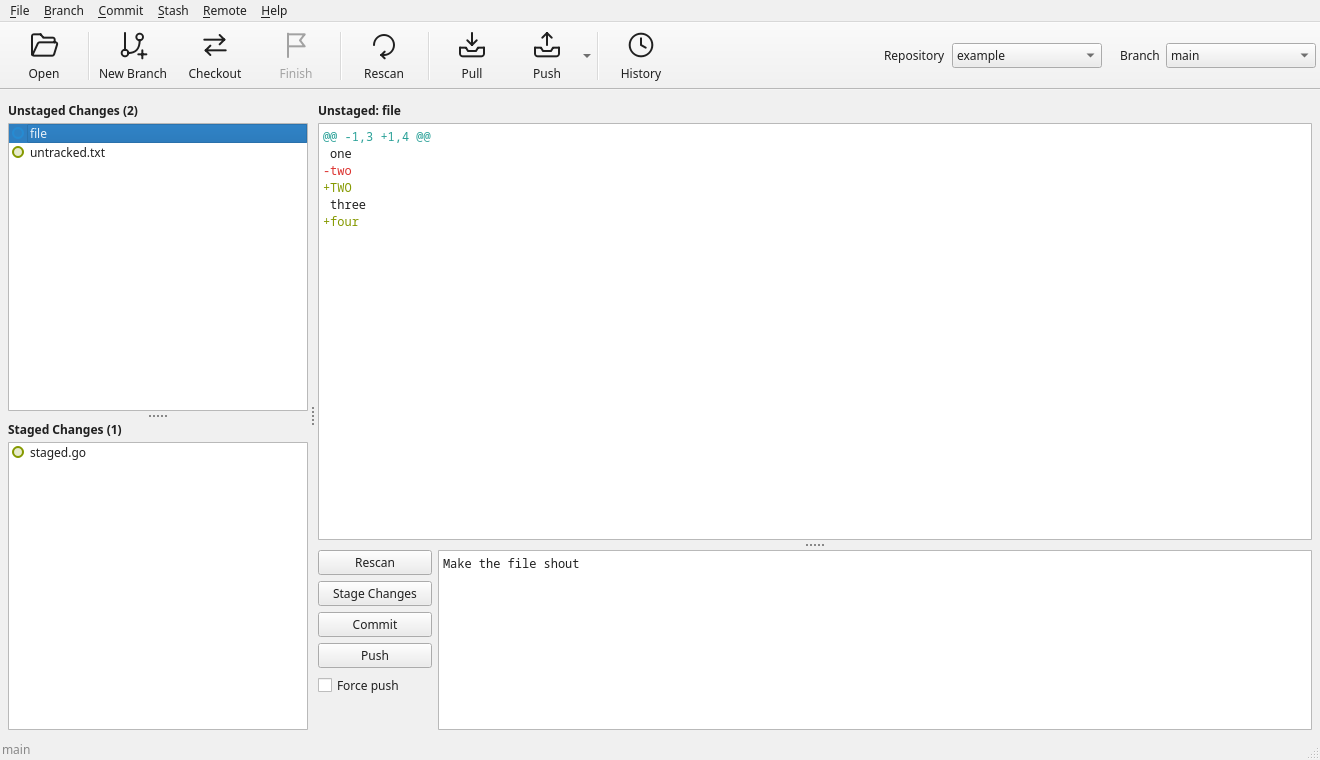
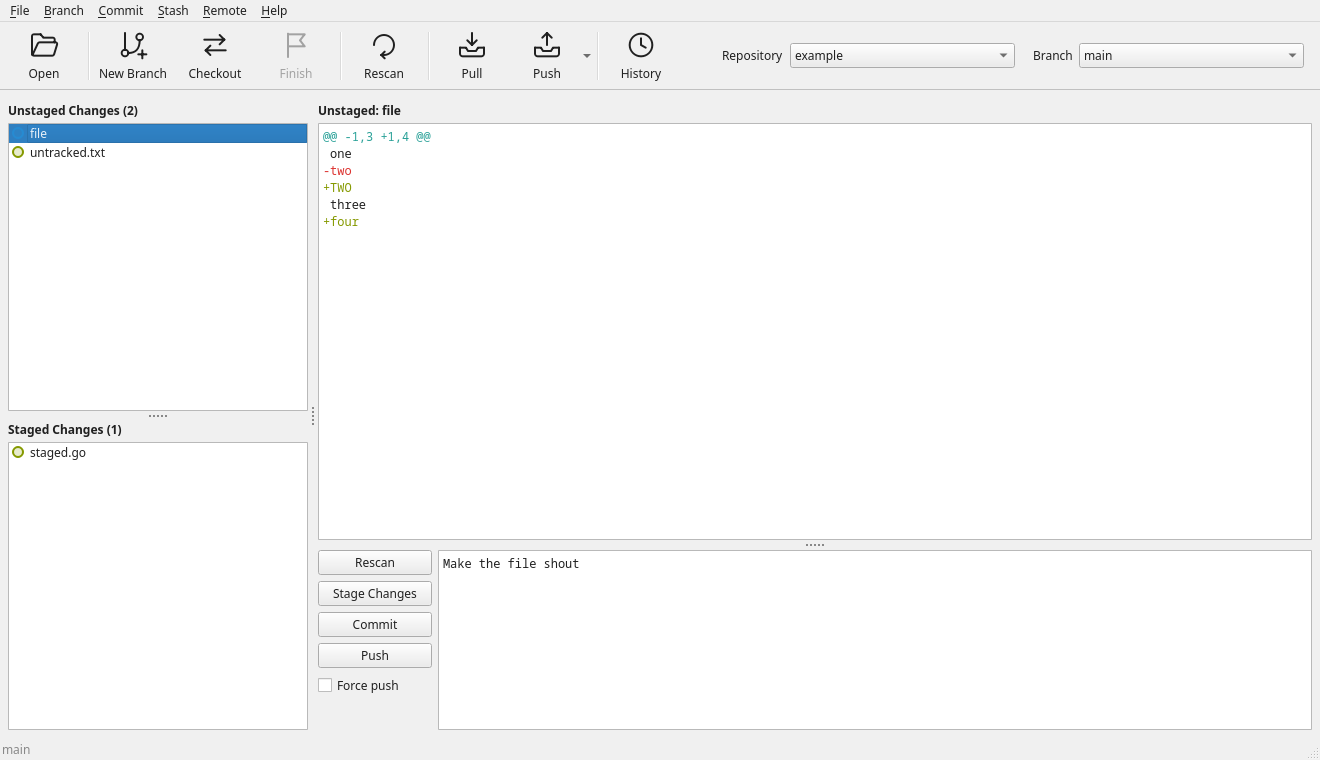
Updated the toolbar UI.

Changed region(s): [[0.5591, 0.0605, 0.9008, 0.0908], [0.9939, 0.0605, 1.0, 0.0908]]

diff --git a/internal/ui/window.go b/internal/ui/window.go
@@ -127,19 +127,22 @@ func NewWindow(path string) *Window {
 	w.views.AddWidget(w.history.page)
 	w.bar = newRepoBar()
 	w.bar.setRepositories(w.config.Repositories, "")
-	// The progress bar is under the toolbar, the width of the window.
+	w.makeMenus()
+	w.makeToolBar()
+	// The toolbar is in the window's own layout, as termite's is, not in a
+	// toolbar area of the main window, and the progress bar is under it, the
+	// width of the window.
 	w.progress = newProgress()
 	central := qtwidgets.NewQWidget(nil)
 	layout := qtwidgets.NewQVBoxLayout(central)
 	layout.SetContentsMargins(qtcore.QMargins{})
 	layout.SetSpacing(0)
+	layout.AddWidget(w.toolbar)
 	layout.AddWidget(w.progress)
 	layout.AddWidgetFull(w.views, 1, 0)
 	w.SetCentralWidget(central)
 	w.makeStatusBar()
 
-	w.makeMenus()
-	w.makeToolBar()
 	w.applyColours()
 	w.applyCodeFont()
 	w.connect()
@@ -324,8 +327,8 @@ func (w *Window) makeToolBar() {
 	w.finishAction.SetIconText("Finish")
 	w.showHistory.SetIconText("History")
 
-	bar := &toolBar{window: w}
-	qtwidgets.NewQToolBarWithTitleWith(bar, "Buttons", w)
+	bar := &toolBar{}
+	qtwidgets.NewQToolBarWithTitleWith(bar, "Buttons", nil)
 	w.toolbar = bar.QToolBar
 	w.toolbar.SetMovable(false)
 	w.toolbar.SetToolButtonStyle(qtcore.ToolButtonTextUnderIcon)
@@ -358,21 +361,29 @@ func (w *Window) makeToolBar() {
 
 	// The dropdowns take up the rest, at the right.
 	w.toolbar.AddWidget(w.bar.widget)
-	w.AddToolBarArea(qtcore.TopToolBarArea, w.toolbar)
 }
 
-// toolBar is the window's toolbar: Fusion draws it, then the dark theme's own
-// lines over it.
+// toolBar is the window's toolbar, in its layout rather than a toolbar area,
+// as termite's is. Styles draw nothing for a toolbar outside a main window's
+// areas, so it draws its own line along its bottom, in the text's colour so
+// that it shows in every theme.
 type toolBar struct {
 	qtwidgets.QToolBarBase
-	window *Window
 }
 
-// PaintEvent draws the toolbar, and the dark theme's lines over it.
+// PaintEvent draws the toolbar, then its line along the bottom.
 func (b *toolBar) PaintEvent(event *qtgui.QPaintEvent) {
 	b.Super().PaintEvent(event)
-	b.window.paintDarkToolBar()
+	painter := qtgui.NewQPainterOn(b)
+	defer painter.End()
+	line := b.Palette().Color(qtgui.QPaletteWindowText)
+	line.A = toolBarLine
+	painter.FillRect(qtcore.QRect{Y: b.Height() - 1, Width: b.Width(), Height: 1}, line)
 }
+
+// toolBarLine is the opacity, out of 255, of the line along the toolbar's
+// bottom, as termite's.
+const toolBarLine = 60
 
 // tipFilter takes the tooltip events of what it watches, so that no tooltip
 // shows.
@@ -382,29 +393,6 @@ type tipFilter struct{ qtcore.QObjectBase }
 func (f *tipFilter) EventFilter(watched *qtcore.QObject, event *qtcore.QEvent) bool {
 	return event.Type() == qtcore.QEventToolTip || f.Super().EventFilter(watched, event)
 }
-
-// paintDarkToolBar paints over the light lines Fusion draws along the
-// toolbar's top and bottom whatever the palette, in the dark theme only, where
-// they stand out. The top's goes, painted in the colour of the row below it,
-// the top of Fusion's gradient (the window's colour 4% lighter). The bottom's
-// is painted a little darker than Fusion's: white at toolBarLine over the
-// window's colour, the bottom of the gradient.
-func (w *Window) paintDarkToolBar() {
-	if w.config.Theme != settings.ThemeDark {
-		return
-	}
-	painter := qtgui.NewQPainterOn(w.toolbar)
-	defer painter.End()
-	window := w.toolbar.Palette().Color(qtgui.QPaletteWindow)
-	width, bottom := w.toolbar.Width(), w.toolbar.Height()-1
-	painter.FillRect(qtcore.QRect{Width: width, Height: 1}, lighter(window, 104))
-	painter.FillRect(qtcore.QRect{Y: bottom, Width: width, Height: 1}, window)
-	painter.FillRect(qtcore.QRect{Y: bottom, Width: width, Height: 1}, qtgui.RGBAColor(255, 255, 255, toolBarLine))
-}
-
-// toolBarLine is the opacity, out of 255, of the white of the dark theme's
-// line along the toolbar's bottom: Fusion's is 90.
-const toolBarLine = 70
 
 // action adds an action of the window to a menu.
 func (w *Window) action(menu *qtwidgets.QMenu, text, key string, triggered func()) *qtgui.QAction {

diff --git a/internal/ui/ui_test.go b/internal/ui/ui_test.go
@@ -322,12 +322,18 @@ func TestPanesLook(t *testing.T) {
 	})
 }
 
-// The dark theme has no light line along the toolbar's top, its first row
-// being the row below's colour, and keeps the lines along its bottom, the
-// light one a little darker than Fusion's; the light theme keeps Fusion's.
+// The toolbar is in the window's layout, above the progress bar, not in a
+// toolbar area, as termite's is, and draws its own line along its bottom in
+// the text's colour, in every theme, and none along its top.
 func TestToolBarLines(t *testing.T) {
 	w := newTestWindow(t, newRepo(t))
 	on(func() {
+		if w.ToolBarArea(w.toolbar) != qtcore.NoToolBarArea || w.toolbar.ParentWidget().Ptr() != w.CentralWidget().Ptr() {
+			t.Error("the toolbar is in a toolbar area of the window")
+		}
+		if _, y := mapPoint(w.toolbar.AsQWidget(), w.CentralWidget(), 0, 0); y != 0 {
+			t.Errorf("the toolbar is at %d in the window's layout", y)
+		}
 		defer func() {
 			w.config.Theme = ""
 			applyTheme("")
@@ -339,27 +345,19 @@ func TestToolBarLines(t *testing.T) {
 			qtcore.QCoreApplicationProcessEvents()
 			image := w.toolbar.Grab().ToImage()
 			x, last := image.Width()-1, image.Height()-1
-			lined := image.Pixel(x, 0) != image.Pixel(x, 1)
-			if want := theme != settings.ThemeDark; lined != want {
-				t.Errorf("%s: a line along the top is %v, not %v", theme, lined, want)
+			if image.Pixel(x, 0) != image.Pixel(x, 1) {
+				t.Errorf("%s: a line along the top", theme)
 			}
-			if image.Pixel(x, last) == image.Pixel(x, last-3) || image.Pixel(x, last-1) == image.Pixel(x, last-3) {
-				t.Errorf("%s: the lines along the bottom are gone", theme)
+			palette := w.toolbar.Palette()
+			window, text := palette.Color(qtgui.QPaletteWindow), palette.Color(qtgui.QPaletteWindowText)
+			blend := func(w, t uint8) int { return (int(w)*(255-toolBarLine) + int(t)*toolBarLine) / 255 }
+			got := image.PixelColor(x, last)
+			if r := blend(window.R, text.R); int(got.R) < r-2 || int(got.R) > r+2 {
+				t.Errorf("%s: the bottom line is %d, not %d", theme, got.R, r)
 			}
-		}
-		// Fusion's own line is what is drawn while the theme is not known to
-		// be dark.
-		lineAt := func() int {
-			image := w.toolbar.Grab().ToImage()
-			return int(image.PixelColor(image.Width()-1, image.Height()-1).R)
-		}
-		w.config.Theme = ""
-		fusion := lineAt()
-		w.config.Theme = settings.ThemeDark
-		ours := lineAt()
-		window := int(w.toolbar.Palette().Color(qtgui.QPaletteWindow).R)
-		if ours >= fusion || ours <= window {
-			t.Errorf("the bottom line is %d, not between the window's %d and Fusion's %d", ours, window, fusion)
+			if image.Pixel(x, last-1) == image.Pixel(x, last) {
+				t.Errorf("%s: no line along the bottom", theme)
+			}
 		}
 	})
 }

diff --git a/internal/ui/widgets.go b/internal/ui/widgets.go
@@ -86,18 +86,6 @@ func alpha(fraction float64) uint8 {
 	return uint8(math.Round(fraction * 255))
 }
 
-// lighter returns the colour made lighter by the factor, in percent, as Qt's
-// QColor::lighter does for a colour it does not take past white: its value, and
-// so each channel, is scaled in Qt's sixteen bits a channel, then rounded back
-// to eight.
-func lighter(c qtgui.QColor, factor int) qtgui.QColor {
-	channel := func(v uint8) uint8 {
-		wide := uint32(v) * 257 * uint32(factor) / 100
-		return uint8(min((wide-(wide>>8)+0x80)>>8, 255))
-	}
-	return qtgui.QColor{R: channel(c.R), G: channel(c.G), B: channel(c.B), A: c.A}
-}
-
 // labelled returns the widget with a label above it.
 func labelled(label *qtwidgets.QLabel, widget qtwidgets.QWidgetLike) *qtwidgets.QWidget {
 	pane := qtwidgets.NewQWidget(nil)

diff --git a/CLAUDE.md b/CLAUDE.md
@@ -1,6 +1,6 @@
 # Delta
 
-A git GUI for Linux only, in Go with Qt 6 through the qute bindings (`../qute`, the user's own), first modelled on `git gui` and `gitk`, but a new app: never copy gitk or git gui because they do something (the user's choice). `plan.txt` is the original brief. `../apemail` is the reference for the toolbar, icons, about box, colours, the settings dialog's frames and keeping to one copy, `../reghead` for the pane splitters and the size of the change circles, and `../prism` for the table of colours and the themes: use them as references, don't copy from them.
+A git GUI for Linux only, in Go with Qt 6 through the qute bindings (`../qute`, the user's own), first modelled on `git gui` and `gitk`, but a new app: never copy gitk or git gui because they do something (the user's choice). `plan.txt` is the original brief. `../apemail` is the reference for the toolbar, icons, about box, colours, the settings dialog's frames and keeping to one copy, `../reghead` for the pane splitters and the size of the change circles, `../termite` for the toolbar being in the window's layout, and `../prism` for the table of colours and the themes: use them as references, don't copy from them.
 
 ## Rules
 
@@ -9,7 +9,7 @@ A git GUI for Linux only, in Go with Qt 6 through the qute bindings (`../qute`, 
 * Every bug found gets a unit test that fails without the fix, so that it can't come back. Check that it does fail without it.
 * Don't commit or stage; the user does that. Move and delete files without `git mv` or `git rm`.
 * qute comes from `github.com/nomad-software/qute`, at its latest tag (`go get github.com/nomad-software/qute@latest`), as its README asks for an exact version. No `replace` directives or local dependencies. It needs Qt 6.12 or later. Only `qtcore`, `qtgui` and `qtwidgets` are used, and `qutetest` in the tests.
-* qute frees what Go no longer holds, and what Qt owns (a widget in a layout, an engine in an icon) is Qt's: nothing is deleted by hand but what must go at once (a dialog with `DeleteLater`, a painter with `End`). Sizes, points, rectangles, margins and colours are plain Go structs (`qtgui.QColor` is 8-bit RGBA: `colour` reads one from #rrggbb, `lighter` is QColor::lighter for the dark toolbar). A virtual is overridden by a Go type embedding the class's `…Base`, made with `New…With` (`paneSplitter`, `gripHandle`, `fileList`, `graphColumn`, `paintedEngine`, `progress`, `toolBar`, `tipFilter`, `formDialog`, `rebaseList`, `actionCombo`, and `Window` itself), as qute can't override one on an object already made.
+* qute frees what Go no longer holds, and what Qt owns (a widget in a layout, an engine in an icon) is Qt's: nothing is deleted by hand but what must go at once (a dialog with `DeleteLater`, a painter with `End`). Sizes, points, rectangles, margins and colours are plain Go structs (`qtgui.QColor` is 8-bit RGBA: `colour` reads one from #rrggbb). A virtual is overridden by a Go type embedding the class's `…Base`, made with `New…With` (`paneSplitter`, `gripHandle`, `fileList`, `graphColumn`, `paintedEngine`, `progress`, `toolBar`, `tipFilter`, `formDialog`, `rebaseList`, `actionCombo`, and `Window` itself), as qute can't override one on an object already made.
 * Qt is only touched on the main thread. Anything that runs git in the background comes back through `qute.Post`, and tests use `on`, which is `qute.PostSync`. Tests run under `qutetest.TestMain`, with `QT_QPA_PLATFORM` forced to offscreen first.
 * Test it yourself, offscreen. Never open windows on the user's desktop, inject input, or ask the user to try something; say plainly what could not be checked (a real drag, Wayland's focus) instead.
 * Keep the tests' coverage high (about 90% of statements, `go test -cover ./...`): what is added gets tests. A menu's action that waits on a modal dialog is tested by starting it with `answer`, which waits for the dialog and answers it on the main thread, and `answerNext` for one opened from it (`dialogs_test.go`); only `main` and the colour picker go untested.
@@ -65,7 +65,7 @@ The icon (three green slanted bars making a triangle) is `internal/appicon/appic
 
 * One copy runs for each user (`internal/instance`, on apemail's design): the one that runs holds a `flock` on `delta.lock` and listens on `delta.sock` beside it, in `XDG_RUNTIME_DIR` or else a folder of the user's own in the temporary folder (`Dir`). One started while it runs sends it a `Request`, a line of JSON, and leaves: the desktop's activation token, read before Qt starts, and the folder it would have opened, the one named made absolute (`Named`) or else the folder it was started in. `main.go` claims once Qt has taken its own arguments, before anything else. `Window.Activate` unminimises, raises and activates the window, the token in `XDG_ACTIVATION_TOKEN` for Qt under Wayland, then opens the folder's repository unless it is the one open, not while a command runs; a folder named that is in no repository is told of, one started in is ignored. One that holds the lock but doesn't answer within `answerWait` makes the new copy leave with an error; meanwhile the lock is tried again, so that a copy started while the one that runs is quitting, its socket gone but its lock still held, runs once it is let go of (`TestClaimAfterQuitting`); a lock that can't be had at all lets it run. Only the holder of the lock removes a socket left by a copy that died.
 * There are no tabs. The window shows the changes, or the history in their place while History is on (`views`, a stacked widget; `setHistoryShown`, `historyShown`). It always starts on the changes, whatever the repository holds (the user's choice). History is a checkable action, the toolbar's History and the Branch menu's Show History on Ctrl+H.
-* Under the menus is a toolbar the size of apemail's (`makeToolBar`: 32 pixel icons, text under them, not movable): Open, a separator, New Branch, Checkout, Finish, a separator, Rescan, a separator, Pull, Push, a separator, History. It has no Stage or Delete button (the user's choice). Each button is at least `toolButtonWidth` wide, so that short names are not thin, and has no tooltip: Qt gives a button its action's name as one whatever is set, so an event filter takes the tooltip event. In the dark theme the light line Fusion draws along its top, whatever the palette, is painted over, and the light one along its bottom is painted a little darker (`paintDarkToolBar`, `toolBarLine`, Fusion's being 90, `TestToolBarLines`); every other theme's lines are Fusion's. Its buttons are the menus' own actions, with their icon text set to drop the ellipsis, so that they are enabled alike, but for Push, below.
+* Under the menus is a toolbar the size of apemail's (`makeToolBar`: 32 pixel icons, text under them, not movable): Open, a separator, New Branch, Checkout, Finish, a separator, Rescan, a separator, Pull, Push, a separator, History. It has no Stage or Delete button (the user's choice). Each button is at least `toolButtonWidth` wide, so that short names are not thin, and has no tooltip: Qt gives a button its action's name as one whatever is set, so an event filter takes the tooltip event. It is in the window's own layout, above the progress bar, as `../termite`'s is, not in a toolbar area of the main window (the user's choice: not in the window's header), so that styles draw nothing for it: it draws its own line along its bottom, in the text's colour at `toolBarLine` (60, termite's) so that it shows in every theme, and none along its top (`toolBar.PaintEvent`, `TestToolBarLines`). Its buttons are the menus' own actions, with their icon text set to drop the ellipsis, so that they are enabled alike, but for Push, below.
 * The toolbar's icons are drawn in code in apemail's style (`toolicons.go`: outlines on a grid of 24, 1.5 wide, round ends and joins, in the palette's text colour, disabled text where disabled), through `paintedIcon`, so that they follow the theme and Qt's SVG module is not needed.
 * At the toolbar's right are the dropdowns, in one widget (`repoBar`) that takes up the room beyond the buttons, with a stretch of its own pushing them right, so that Qt narrows it before putting it in the toolbar's menu of what does not fit. Each dropdown is as wide as its longest name, from `repoComboLeast` (225) to `repoComboMost` (300), where names are cut short, and narrows to the least where there is no room; both are on show at the least in a window of the default width, 1320 (`TestRepoBarInToolbar`, `TestRepoComboWidth`). Repository is a dropdown of every repository opened (`Settings.Repositories`), by the name of its folder only (the user's choice), in order of that ignoring case and then of the whole path (`byFolder`), each one's whole path its tooltip; then Branch, a dropdown of the local branches (`byName`), the current one chosen, or none on a detached HEAD, and listed even before the first commit when git lists none. They act on `OnActivated` only, so that filling them does nothing: choosing a repository opens it (one that can't be is told of, and the one open chosen again), and choosing a branch checks it out. Branch is followed by `repoBarEnd` of space before the toolbar's end. The branches are read with the status on every rescan.
 * There is no spinner in the toolbar (the user's choice). Under it, the width of the window, is a progress bar (`progress.go`), `progressHeight` high, busy rather than counting, with no text. It is painted here, not by the style, as Fusion's busy bar is a still block of colour: a segment in `ProgressColour` sweeping across a faint track in the theme's colours (`progress.chunk`). It shows once background work has gone on for `progressDelay`, so that quick work does not flicker, and goes when the count is back to 0. It keeps its room while hidden, so that the panes don't move as it shows and goes (`TestProgress`).

diff --git a/README.md b/README.md
@@ -71,6 +71,9 @@ repository is opened while a git command is running; the status bar says so.
 
 ## The toolbar
 
+The toolbar is part of the window's contents, under the menus, rather than
+docked in the window's header, with a line of its own along its bottom.
+
 | Button | Does |
 | ------ | ---- |
 | **Open** | Opens a repository, as **File > Open Repository…** (`Ctrl+O`) does. |
